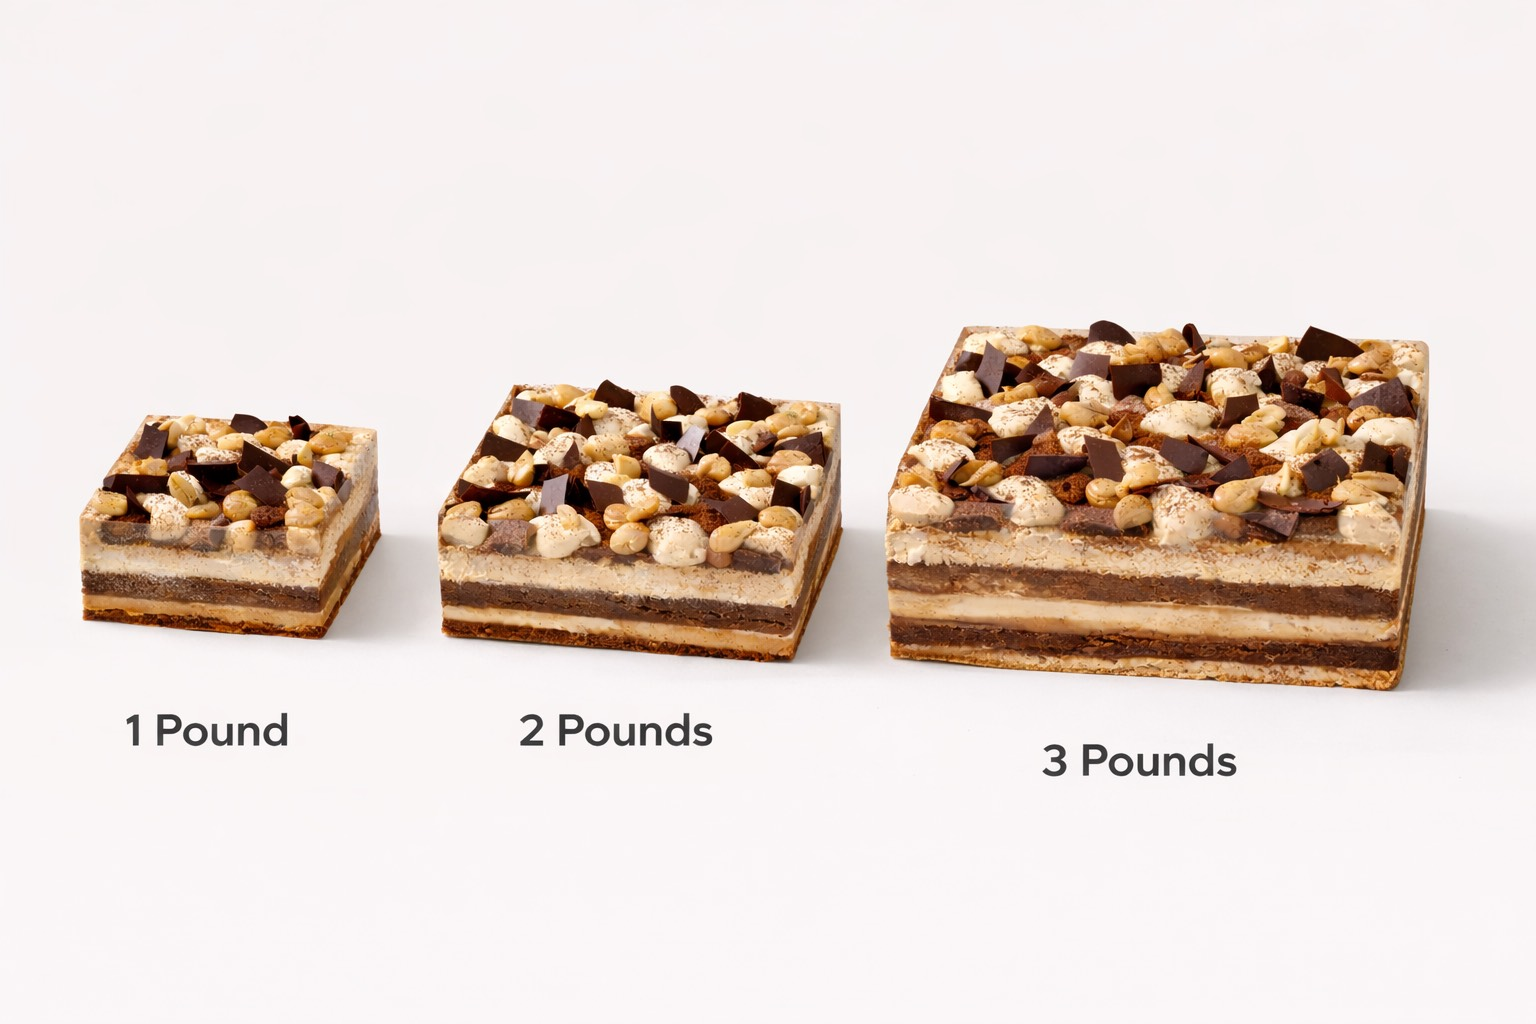
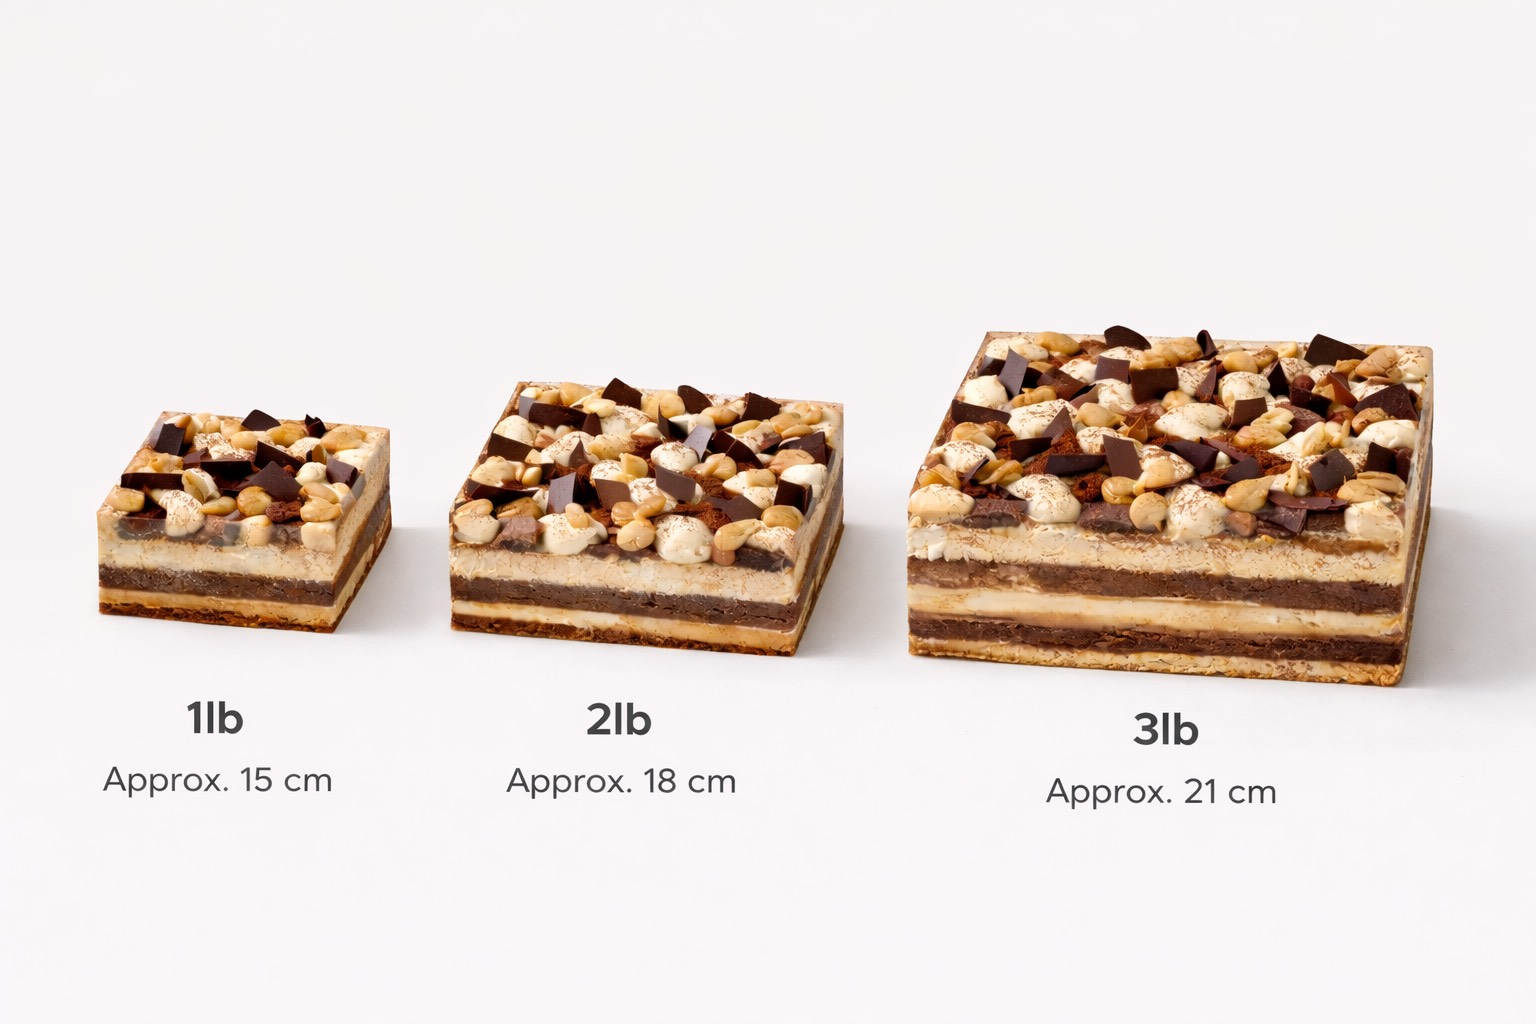
size

Changed region(s): [[0.0312, 0.3125, 0.9375, 0.7812], [0.3125, 0.6875, 0.5, 0.7812], [0.0625, 0.6875, 0.2188, 0.7812]]

diff --git a/size-guide.html b/size-guide.html
@@ -181,13 +181,9 @@
                     <div class="card">
 
                                 <h2></h2>
-                                <div class="image-box">
-                                    <img src="img/limonpie-size.jpg" alt="Shop Interior" />
-
-                                    <img src="img/limonpie-size.jpg" alt="Shop Interior" />
-            
-
-                    </div>
+                                
+                                    <img src="img/limonpie-size.png" alt="Shop Interior" />
+                     
                 </div>
             </div>
             </div>
@@ -200,9 +196,9 @@
                 <div class="card">
 
                             <h2></h2>
-                            <div class="image-box">
+                            
                                 <img src="img/squarecake-sizes.jpg" alt="Portrait" />
-                            </div>
+                            
 
                     </div>
                 </div>
